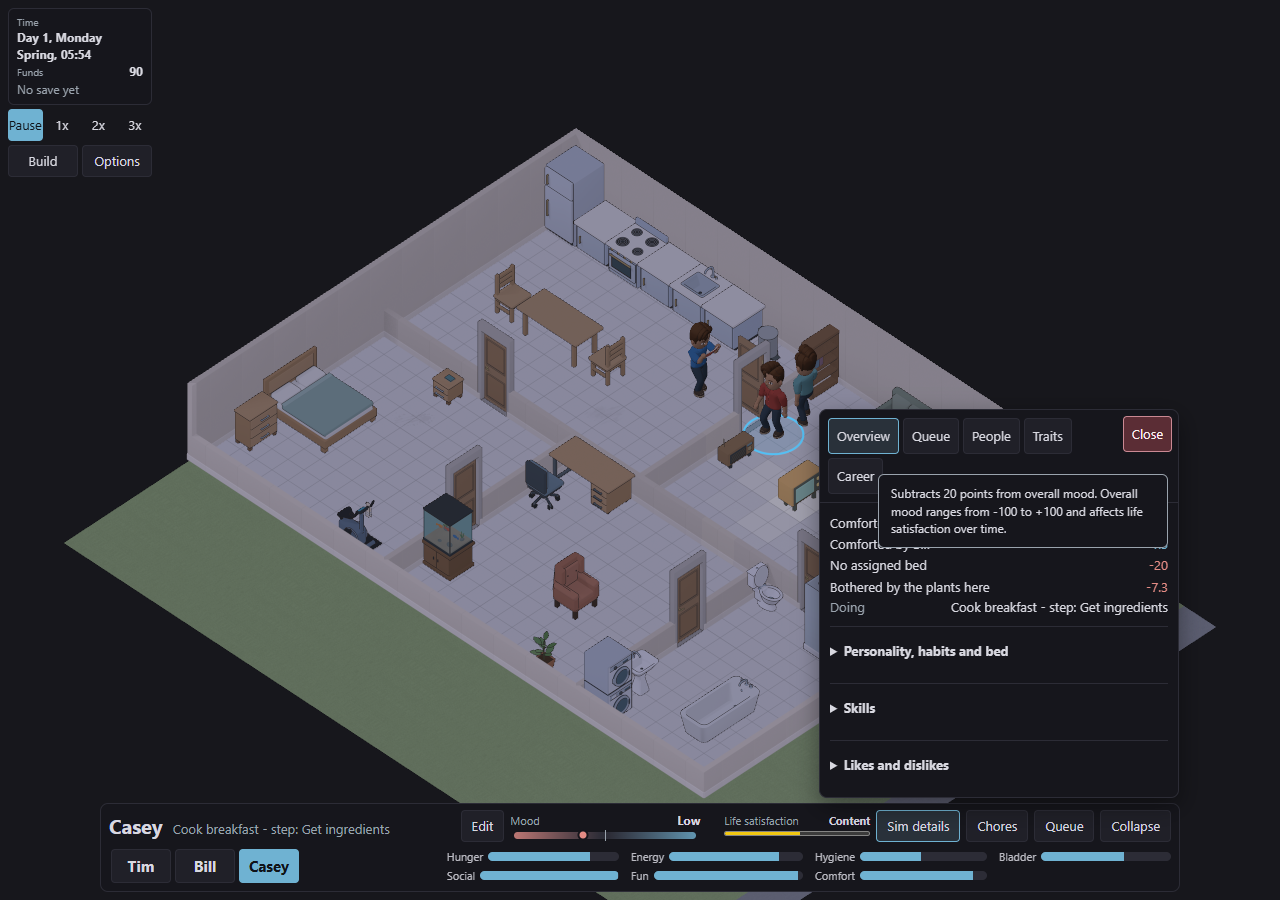
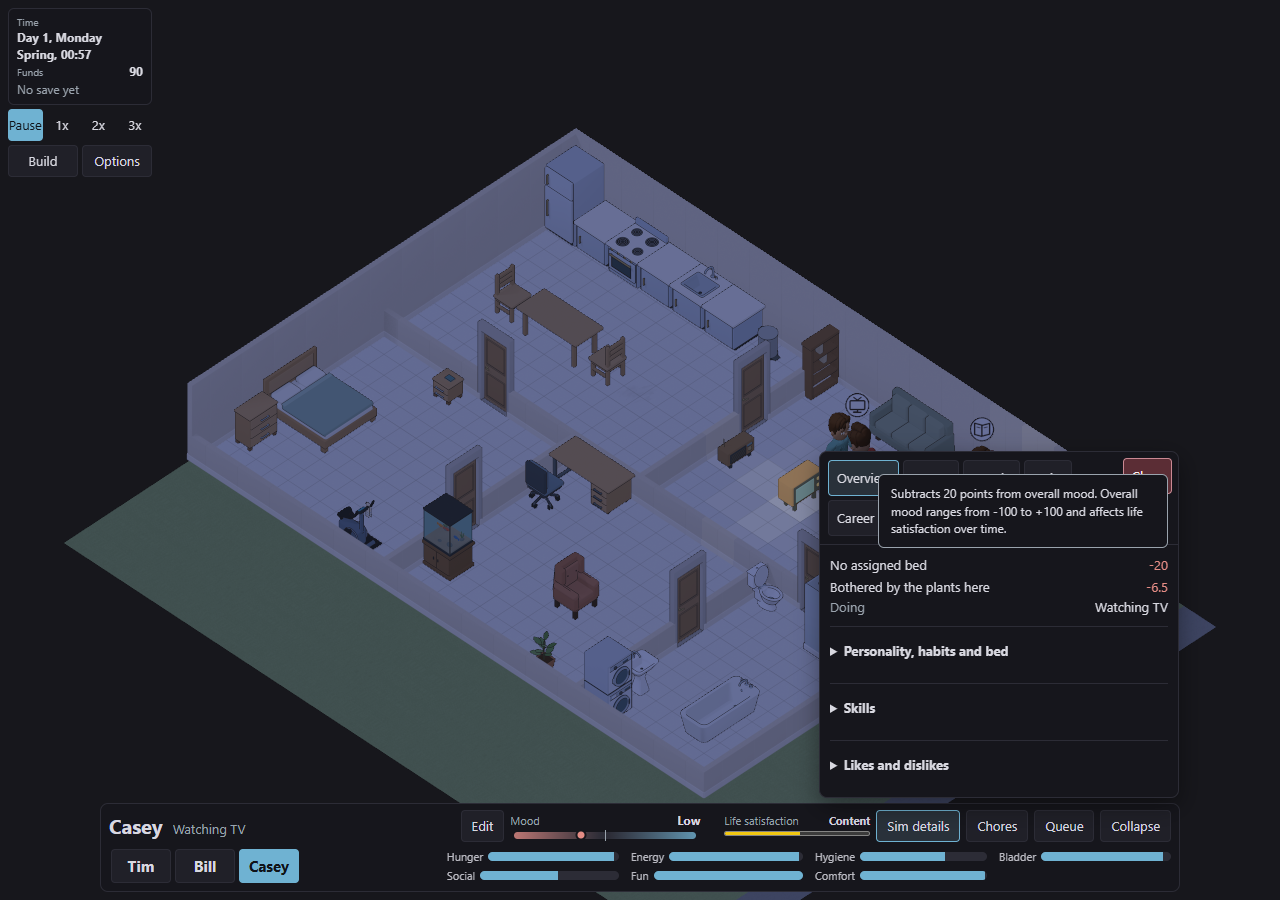
Verify automatic bed assignments and condition help on current main

diff --git a/crates/terri-wasm/src/save_v3_tests.rs b/crates/terri-wasm/src/save_v3_tests.rs
@@ -309,7 +309,17 @@ fn bed_era_prefix_preserves_nonempty_places_paths_and_sleep_countdowns() {
         assert_eq!(person.path.is_some(), !sleeping);
         let places = snapshot.sleeping_places.as_ref().unwrap();
         assert!(places.active_places.contains(&(agent, 1)));
-        assert_eq!(places.assignments.len(), 1);
+        assert_eq!(
+            places.assignments.len(),
+            3,
+            "the other housemates automatically claim the remaining places"
+        );
+        assert!(
+            places
+                .assignments
+                .contains(&(person.sim_id.unwrap(), bed, 1)),
+            "the explicit manual assignment must remain intact"
+        );
         // Independently encode the published bed-era order, without privacy fields.
         let prefix = postcard::to_allocvec(&(
             &snapshot.world,

diff --git a/docs/evidence/2026-10-18-automatic-beds/verification.md b/docs/evidence/2026-10-18-automatic-beds/verification.md
@@ -1,6 +1,6 @@
 # Automatic beds and condition help verification
 
-Observed 2026-10-18 in the Windows desktop worktree, starting from `10ced796b`. `source-hashes.json` identifies the inspected sources and release WebAssembly build.
+Observed 2026-10-18 in the Windows desktop worktree, starting from `10ced796b` and integrated with main `2b15dcfea` in `9cafc745d`. `source-hashes.json` identifies the inspected sources and release WebAssembly build.
 
 ## Simulation evidence
 
@@ -12,7 +12,7 @@ The actual game started with Tim and Bill assigned to distinct double-bed places
 
 The inspected actual game used `http://127.0.0.1:5194/?stress=0&audio=0`, with simulation paused. The viewport sizes were 1280 by 900 and 390 by 844. Audio was disabled for this task-owned page.
 
-1. `desktop-number-help.png`: the Low spirits number shows its signed mood effect and the mood range in short, literal text. The tooltip is legible above the selected row.
+1. `desktop-number-help.png`: the Low spirits -18 number shows its signed mood effect and the mood range in short, literal text. The tooltip is legible above the selected row.
 2. `missing-bed-condition.png`: Casey's missing-bed condition shows -20. The explanation agrees with that value.
 3. `phone-number-help.png`: the condition label and number remain visible, and the explanation fits inside the phone viewport.
 
@@ -22,4 +22,25 @@ A browser fault check expanded a numeric span to fill the row gap. The same gap 
 
 An independent reviewer inspected all three captures and found no actionable visual defects. Code review identified repeated ownership scans, Escape ordering, selection cleanup and an unrelated encoding error; the corrections passed the reviewer's recheck. The revised tooltip text passed the banned-phrase and prose-structure scans.
 
-The browser console reported a missing favicon request. The rendered game and tooltip checks remained usable.
+The final integrated browser captures reported no console errors. The task-owned page and preview server were closed after verification.
+
+## Deterministic ownership fault check
+
[1 lines of base64/hex data omitted]
+
+## Save and construction checks
+
+The broad pre-integration web run passed 3,734 tests and failed one window test. The broad native run passed 1,613 simulation tests and failed three cases: the grief fixture's unassigned bed affected its expected mood; a frozen V10 window test compared newer conversation state omitted by V10; and the V5 worker continuation compared newer state omitted by V5. The grief fixture now includes a reachable bed. Historical snapshot assertions remain, while exact current continuation uses the current format or the same historical migration on both sides.
+
+The window failure exposed validation of owned reading before restoring its journey. Complete window validation now runs after V6 restores reading and social ownership, before candidate adoption. Early structural checks and older-format validation remain. The new owned-reading/window transaction regression and all 29 window regressions passed before integration. Independent review found no validation bypass. Upstream V17 player-order continuation was preserved during integration.
+
+On the integrated release WebAssembly build, 281 affected web tests passed across 16 files, covering bed controls and bridge state, mood help, sleeping places, window round-trips, legacy saves, save workers, reading projection, player orders, failure bubbles, and Build sessions. Type checking, the production build, the 12 changelog tests and changelog build passed. The refreshed three captures and repeated pointer/focus checks also passed independent review.
+
+
+## Final native verification
+
+The integrated workspace run passed 1,731 simulation tests and the core, data and integration suites. The bridge suite exposed one old fixture that expected only the manual bed assignment. Its assertion now includes the two automatic assignments and explicitly preserves the manual assignment. Product code did not change after the simulation suite passed.
+
+After that test-only correction, `cargo test --workspace --no-run --message-format=json` rebuilt the workspace test artifacts. The exact executable paths returned by Cargo were used to run the remaining targets: all 321 bridge tests passed; the migration example passed four tests and skipped its existing opt-in private-save test. That skipped test requires an explicitly supplied private save path. Workspace documentation tests also passed. These results combine the unchanged simulation suites with the rebuilt bridge and example targets; the original broad invocation itself exited with the old fixture failure.
+
+Rust lint with warnings denied, formatting, 24 CI script tests and documentation identifiers passed. Full web coverage remains the earlier 3,734 passing tests plus one repaired failure; the final integrated browser build passed the 281 affected tests described above.

diff --git a/docs/FEATURES.md b/docs/FEATURES.md
@@ -477,10 +477,10 @@ and refill factors, sleep timing, and recent activity repetition. Its meters
 have text values, and it uses the sheet's existing scrolling area. Opening it
 does not enlarge the closed dock. See [S-sim-details] in `GAME-SYSTEMS.md` and
 `docs/specs/2026-09-30-sim-details.md` for the projection and verification.
-The bed-assignment extension is implemented locally within that disclosure,
-with explicit Assign and Clear controls. It remains unpublished until the
-occupied-bed visual checks pass. Place-specific routing is implemented locally; see
-`docs/specs/2026-10-01-bed-assignment.md`.
+The disclosure includes Assign and Clear controls for physical sleeping places.
+Unassigned Sims automatically claim reachable, unassigned places on simulation
+ticks. Existing assignments are preserved. A Sim without an assigned place
+receives a -20 mood condition. See `docs/specs/2026-10-01-bed-assignment.md`.
 
 **M1b closed with one item of its deliverable unmet, deliberately recorded
 rather than quietly ticked.** Every definition-of-done line passes, and the
@@ -1452,7 +1452,7 @@ the upper-left world group ([CUI-world]). Moving furniture displays one preview;
 Confirm commits and deselects, and Cancel restores and deselects. Selected-person
 action cards now appear in the bounded Queue panel ([CUI-details]); the earlier
 top-right presentation faded between 33% and 55% of viewport
-height. Bed shortages apply a shared household mood penalty. Bookcases rotate
+height. Sims without an assigned bed receive a -20 mood condition. Unassigned Sims automatically claim reachable, unassigned sleeping places. Bookcases rotate
 against their tile edges, and scrolling sidebars retain their content width.
 See `docs/specs/2026-09-30-gameplay-ui.md` for scope and verification.
 

diff --git a/docs/GAME-SYSTEMS.md b/docs/GAME-SYSTEMS.md
@@ -441,7 +441,7 @@ An unassigned living Sim automatically claims a reachable unassigned sleeping pl
 
 ### [S-moods] Moods and moodlets
 
-**Status: Substantial.** The HUD shows an overall mood and a list of moodlets for the selected person. They derive from needs, active conditions, nearby relationships, occupied-item waiting, bed shortages death records and visible dirty dishes in the room. Grief lasts 10 to 60 game days according to affinity at death (PR 141). Sustained mood changes life satisfaction, and waiting for an occupied item adds a penalty scaled by the relevant need. The missing part is feedback into behaviour, which [F-task-willingness] and [P-mood-feedback] describe and which the owner has made a priority, and moodlets from events, memories, and surroundings.
+**Status: Substantial.** The HUD shows an overall mood and a list of moodlets for the selected person. They derive from needs, active conditions, nearby relationships, occupied-item waiting, missing bed assignments, death records and visible dirty dishes in the room. Grief lasts 10 to 60 game days according to affinity at death (PR 141). Sustained mood changes life satisfaction, and waiting for an occupied item adds a penalty scaled by the relevant need. The missing part is feedback into behaviour, which [F-task-willingness] and [P-mood-feedback] describe and which the owner has made a priority, and moodlets from events, memories, and surroundings.
 
 Future facial expressions and unique animations should reflect both current mood and overall life satisfaction. The owner requested this direction on 2026-10-01; expression states remain unbuilt. [Life satisfaction](specs/2026-10-01-life-satisfaction.md) defines the implemented score and meter.
 

diff --git a/docs/lessons-learned.md b/docs/lessons-learned.md
@@ -12741,3 +12741,13 @@ Adding unplaced catalogue models can change the saved global content fingerprint
 **Prevention.** Keep provenance for unfinished objects and historical responsibility. Check the living actor separately before granting a new social effect; preserve existing opinions and let consumption finish normally.
 
 **Verify.** Remove the cook through the real mortality cleanup, prove the meal survives, then finish a guest portion. Require unchanged empty and nonempty opinions, no new appreciation diagnostic and an eaten portion.
+
+## [L-keep-workspace-test-inputs-stable] Reuse the established Cargo build context
+
+**What happened.** A package-only retest rebuilt dependencies after a workspace build had finished.
+
+**Root cause.** Changing package selection changed Cargo's dependency build inputs and matched a different set of cached artifacts.
+
+**Prevention.** Keep workspace package selection for focused retries. Use `cargo test --workspace --no-run --message-format=json` to obtain current test executable paths, then execute the remaining targets. Include test-enabled examples and documentation tests when a failed library interrupted the workspace run.
+
+**Verification.** Inspect Cargo's artifact records for freshness and target names. Require the corrected tests, remaining examples and documentation tests to pass. Retain the earlier passing results only when their source and build inputs remain unchanged.

diff --git a/docs/changelog/2026-10-18-room-names.md b/docs/changelog/2026-10-18-room-names.md
@@ -1,9 +1,7 @@
 # Shared meals, room names and outdoor cleaning
 
 Shared meals earn the cook some goodwill, and the game has a new logo. Name rooms across the whole lot, review boundary changes before keeping them, and clean paved areas outside.
-Sims keep your orders through urgent needs, explain failures, and confirm new orders that interrupt work.
-
-Sims claim available beds, and condition numbers explain their mood effects.
+Sims keep your orders through urgent needs, explain failures, and confirm new orders that interrupt work. Sims claim available beds, and condition numbers explain their mood effects.
 
 ## New
 
@@ -30,6 +28,7 @@ Sims claim available beds, and condition numbers explain their mood effects.
 
 - The missing-bed mood penalty applies only to Sims without an assigned bed.
 - Windows can be installed while a Sim is fetching or reading a book.
+- Saves preserve book fetching and reading when windows are installed.
 
 - A room name entered in review remains protected by the exit confirmation even after you reverse every wall edit.
 - Trying to sell furniture that is in use keeps the refusal visible.

diff --git a/docs/superpowers/plans/2026-10-18-automatic-beds-and-condition-help.md b/docs/superpowers/plans/2026-10-18-automatic-beds-and-condition-help.md
@@ -2,7 +2,7 @@
 
 **Goal:** Assign reachable unclaimed sleeping places automatically and explain condition scores only over the numbers in Sim details.
 
-**Approved behavior:** Preserve existing assignments. Never take another person's assigned place. Apply the existing -20 mood penalty only to people without an assignment. Explain signed mood points rather than percentages; mood can affect life satisfaction over time. Keep labels and empty row space outside the tooltip trigger.
+**Approved behavior:** Preserve existing assignments. Never take another person's assigned place. Apply the existing -20 mood penalty only to people without an assignment. Explain signed mood points and the effect of sustained mood on life satisfaction. Keep labels and empty row space outside the tooltip trigger.
 
 **Architecture:** Run deterministic assignment before action selection on simulation ticks, using existing physical sleeping places, navigation and saved ownership. Derive the individual mood condition from that ownership. Keep tooltip presentation in the existing mood panel without a new simulation or save field.
 
